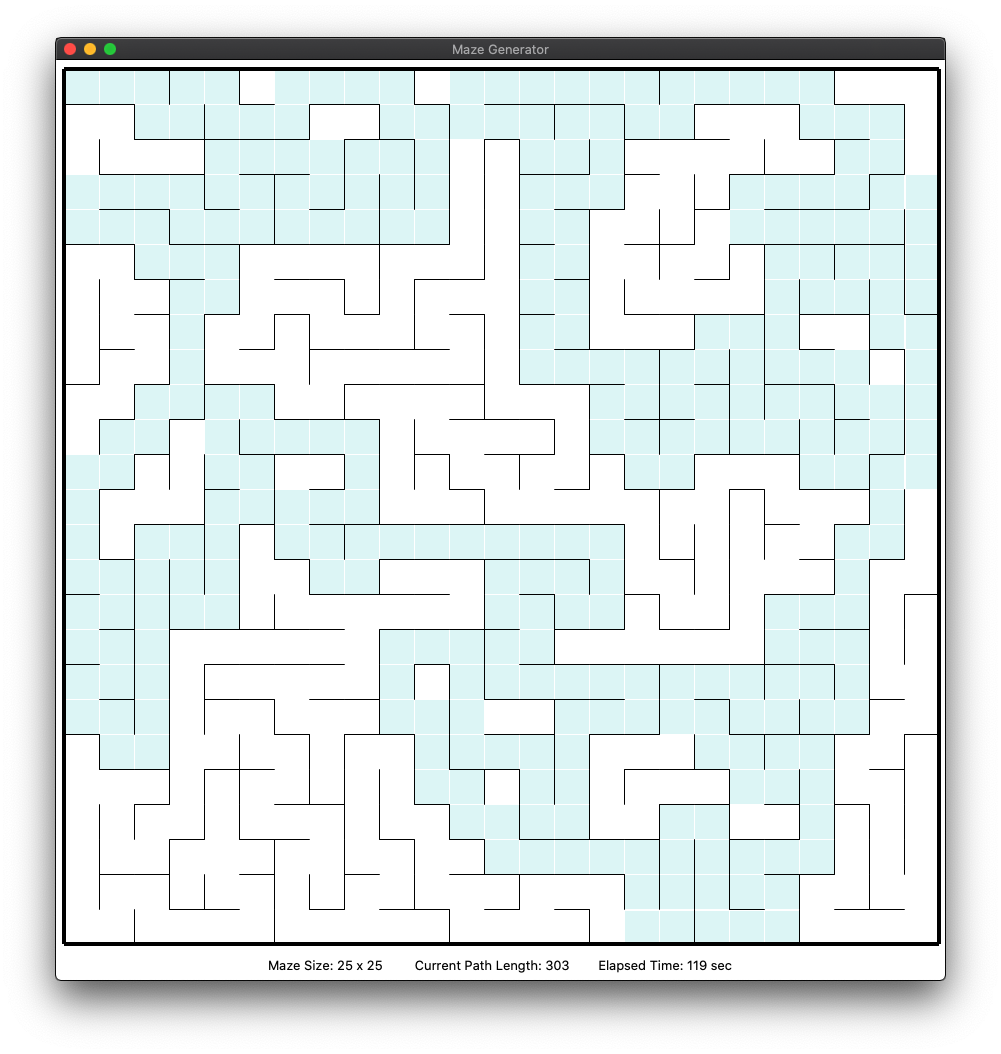
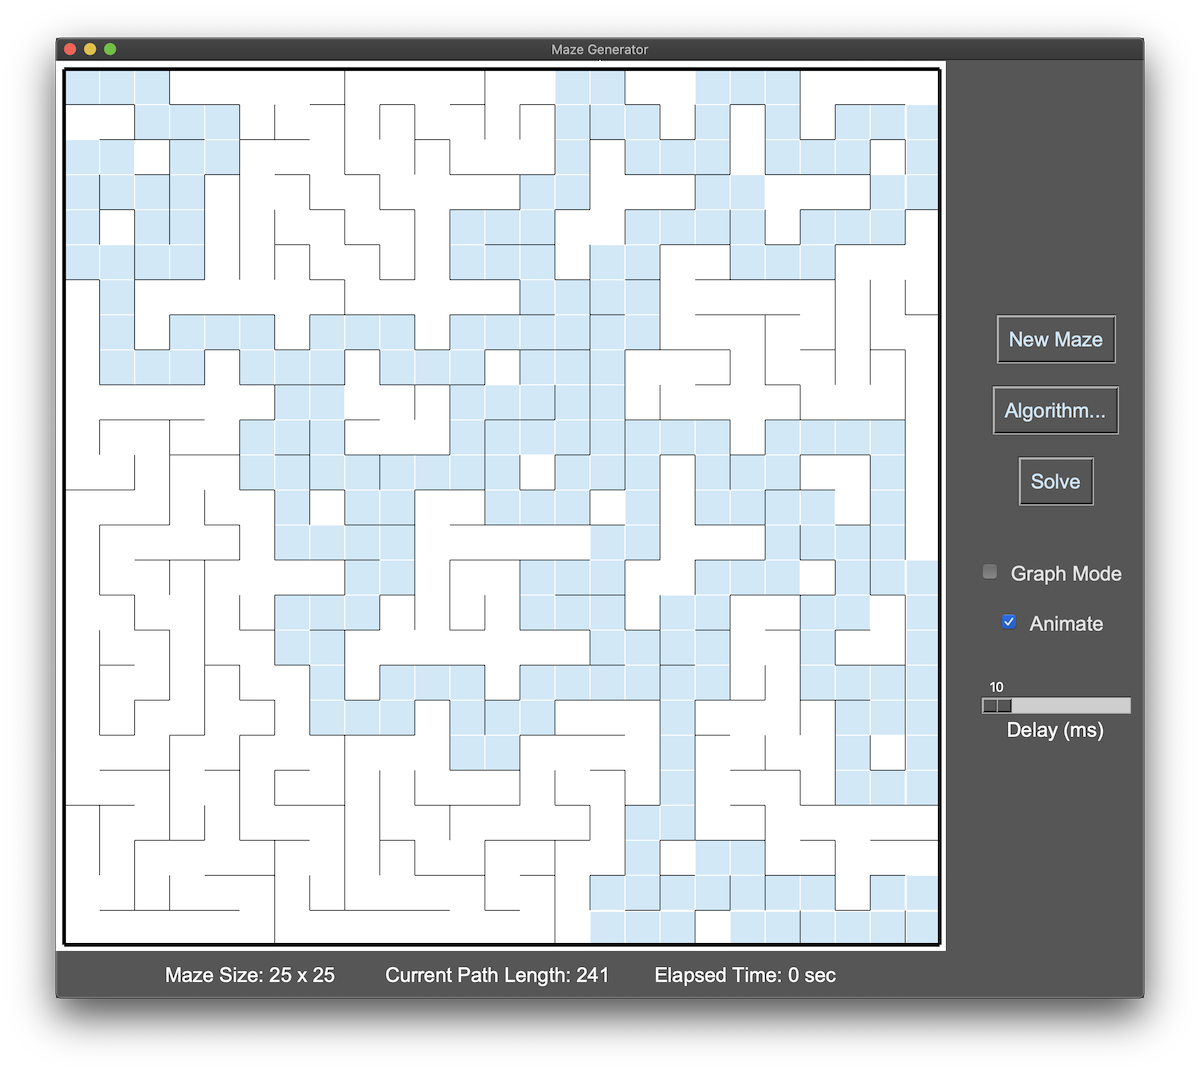
Update docs

diff --git a/setup.py b/setup.py
@@ -5,7 +5,7 @@ setup(
     name='labyrinth',
     version='0.1.0',
     packages=find_packages(),
-    python_requires='>=3.6',
+    python_requires='>=3.7',
     entry_points={
         'console_scripts': [
             'labyrinth = labyrinth.__main__:main',

diff --git a/README.md b/README.md
@@ -1,14 +1,154 @@
-# labyrinth - Python maze generator
+# labyrinth - Python maze generator and solver
 
-Labyrinth is a maze generator written in Python. It is currently a work in progress.
+This package contains utilities for generating and solving [mazes](https://en.wikipedia.org/wiki/Maze)
+using a variety of different algorithms.
 
-## Example Usage
+## About
 
-### Command Line
+Creating mazes by hand has long been a hobby of mine, since I was in elementary school. I always liked
+solving mazes ever since I learned what they were, and I eventually realized that they were just as much
+fun to make as they were to solve&mdash;if not more so! My dad and I would create mazes for each other,
+trying our hardest to create a maze that was too puzzling for the other to solve. We would time ourselves
+while solving each other's creations in a constant battle to prove who was the better maze solver. We
+never did get a definitive answer to that question, but mazes have been a passion of mine ever since.
+
+My passion for mazes was only further amplified when I discovered one day in a college math class that mazes
+are perfect candidates for modeling with the branch of mathematics known as
+[graph theory](https://en.wikipedia.org/wiki/Graph_theory). In its most basic form, a *graph* is a set of
+objects (known as *vertices* or *nodes*) and a set of pairwise connections between objects (known as *edges*).
+Graphs have all kinds of immensely useful practical applications, in areas as diverse as biology, computer
+science, and linguistics. In addition to all of these extremely pragmatic applications of graph theory,
+graphs can be fun, too&mdash;it turns out that it is possible to generate mazes using several well-known graph
+theory algorithms! I have wanted to explore these algorithms and the connection between mazes and graphs ever since,
+and this package is the realization of those aspirations.
+
+In order to represent a rectangular maze as a graph, we simply create a vertex for each cell in the maze, and then
+we add an edge between any two cells that are neighbors of each other. In this context, only cells directly to the
+north, south, east, and west of a given cell are considered neighbors, since you typically aren't allowed to move
+diagonally through mazes. Once we have this graph-based representation of the maze grid, generating the maze itself
+is exactly equivalent to finding a *spanning tree* of the graph. A *tree* is a special type of graph that is 
+*connected* (i.e., there exists a path between any two chosen vertices) and *acyclic* (i.e., there are no looping 
+paths). A spanning tree is simply a tree that *spans* (or includes) all vertices of the graph.
+
+The `labyrinth` package uses this graph theory&ndash;based approach to model mazes as a grid of connected cells.
+To maintain efficient access to the neighbors of any given cell, the graph is stored using
+[adjacency lists](https://en.wikipedia.org/wiki/Adjacency_list). The `labyrinth.graph` module is an
+object-oriented implementation of the mathematical concept of graphs as described in the previous paragraph.
+This module has no concept of mazes and can be used independently of the rest of this project for any number of
+graph-based applications. The only requirement is that the objects being used as vertices must be hashable
+(which most Python objects are by default).
+
+## Installation
+
+The package is not currently available on PyPI or any other Python package repository. The easiest
+way to install it is to clone the GitHub repository and install it from source.
+
+### Prerequisites
+
+* [Python](https://www.python.org/downloads/) 3.7 or newer
+* [Git](https://git-scm.com)
+* [Make](https://www.gnu.org/software/make/)
+
+### Installation Instructions
+
+Run the following commands in a shell (a UNIX-like environment is assumed):
 
 ```
->>> from labyrinth.maze import Maze
->>> print(Maze(20, 10))
+$ git clone git@github.com:will2dye4/labyrinth.git
+$ cd labyrinth
+$ make install
+```
+
+The package does not have any dependencies besides Python itself. If you wish to
+sandbox your installation inside a virtual environment, you may choose to use
+[virtualenvwrapper](https://virtualenvwrapper.readthedocs.io/en/latest/) or a similar
+utility to do so.
+
+When successfully installed, a program called `maze` and another program called `maze-ui`
+will be placed on your `PATH`. See the Usage section below for details about how to use
+these programs.
+
+## Usage
+
+The `maze` program is a command-line interface for generating mazes.
+
+At any time, you can use the `-h` or `--help` flags to see a summary of options that
+the program accepts.
+
+```
+$ maze -h
+usage: maze [-h] [-a {dfs,kruskal,prim,wilson}] [-g] [dimensions]
+
+Generate mazes.
+
+positional arguments:
+  dimensions            Dimensions of the maze to generate (e.g., 10x10)
+
+optional arguments:
+  -h, --help            show this help message and exit
+  -a {dfs,kruskal,prim,wilson}, --algorithm {dfs,kruskal,prim,wilson}
+                        The algorithm to use to generate the maze
+  -g, --gui, --ui       Display a GUI showing the maze being generated
+```
+
+Typical usage is `maze <dimensions>`, where `<dimensions>` is a string like `10x10`
+describing the dimensions of the maze to generate (width x height). The program will
+generate a random maze of the given size and print an ASCII representation of the maze
+to the console.
+
+### Algorithms
+
+By default, `maze` will use a random depth-first search algorithm to generate the maze.
+To specify a different algorithm, use the `-a` or `--algorithm` flags to `maze`. The
+available algorithms are `dfs`, `kruskal`, `prim`, and `wilson`. A description of each
+of these algorithms follows.
+
+The **DFS** (depth-first search) algorithm generates paths through the maze using a
+conventional [depth-first search](https://en.wikipedia.org/wiki/Depth-first_search)
+through the maze's underlying graph. The search starts in the top left corner and 
+repeatedly moves to a neighboring cell, creating a path as it goes. When the path reaches 
+a dead end (i.e., moving to any neighboring cell would create a cycle), the algorithm 
+backtracks to the most recent unvisited cell and starts again. Because of this backtracking
+behavior, this algorithm is also sometimes referred to as the **recursive backtrack** algorithm.
+The DFS algorithm tends to produce mazes with long, winding corridors but which are not 
+particularly difficult to solve.
+
+The version of **Kruskal's** algorithm implemented here is a modified version of
+[Kruskal's algorithm](https://en.wikipedia.org/wiki/Kruskal%27s_algorithm) for finding
+minimum spanning trees of connected graphs. Because the maze graph is unweighted,
+the algorithm is modified to select edges at random rather than based on lowest weight,
+but otherwise the algorithm is the same: at each step, an edge between two neighboring
+cells is selected, and the walls between the cells are removed if the two cells belong to
+disjoint paths through the maze. Kruskal's algorithm tends to produce mazes with many
+short cul-de-sacs and dead ends which are moderately difficult to solve.
+
+The version of **Prim's** algorithm implemented here is a modified version of
+[Prim's algorithm](https://en.wikipedia.org/wiki/Prim%27s_algorithm), which, like
+Kruskal's algorithm, finds minimum spanning trees of connected graphs. As with Kruskal's
+algorithm, Prim's algorithm has been modified to select edges at random rather than by
+weight. Prim's algorithm starts by selecting a random cell in the graph and marking it as
+being part of the maze. It then adds all of that cell's neighbors to a set called the "frontier."
+At each subsequent step, a cell is randomly chosen from the set of frontier cells and added to the
+maze, and all of that cell's neighbors are added to the set of frontier cells. The process
+continues until there are no frontier cells left, meaning that all cells are part of the maze.
+Prim's algorithm, like Kruskal's algorithm, tends to produce mazes with many cul-de-sacs and
+dead ends.
+
+**Wilson's** algorithm is somewhat similar to Kruskal's and Prim's algorithms, but unlike those
+algorithms, Wilson's algorithm generates [uniform spanning trees](https://en.wikipedia.org/wiki/Loop-erased_random_walk#Uniform_spanning_tree)
+and therefore tends to produce mazes which are a bit more visually pleasing than those generated
+by the previous two algorithms. Wilson's algorithm works by performing repeated loop-erased random
+walks through the graph, creating entire passages and adding them to the maze at once. (For more
+details about loop-erased random walks and uniform spanning trees, see the Wikipedia link earlier
+in this paragraph.)
+
+### Output
+
+When running in non-GUI mode (the default), the `maze` program prints output to the console. Sample
+output from running the `maze` program with a custom size is as follows.
+
+```
+$ maze 20x10
 +---+---+---+---+---+---+---+---+---+---+---+---+---+---+---+---+---+---+---+---+
 |               |           |           |       |       |               |       |
 +---+---+---+   +---+   +   +---+   +   +   +   +   +   +   +---+   +---+   +   +
@@ -32,10 +172,56 @@ Labyrinth is a maze generator written in Python. It is currently a work in progr
 +---+---+---+---+---+---+---+---+---+---+---+---+---+---+---+---+---+---+---+---+
 ```
 
+#### Exit Codes
+
+When the program runs successfully, it exits with a code of zero (0). If the program
+encounters an error in parsing the arguments that were passed to it, it exits with a code
+of two (2).
+
 ### GUI Mode
 
-```
-$ python3 labyrinth/ui.py
-```
+In order to visualize the process of generating mazes, the program also has a GUI mode,
+which can be activated with the `-g` (`--gui`) flag to `maze`, or by simply invoking `maze-ui`
+instead of `maze`. When running in GUI mode, only error output is printed to the console,
+and a window will open containing a visual representation of the maze and controls for generating
+new mazes using the different algorithms described above. Once a maze has been generated, clicking
+and dragging from the top left corner of the maze allows the user to solve the maze if they wish; the
+goal is to reach the bottom right corner. While a maze is being generated or solved, the GUI also
+displays statistics that show the size of the maze, the length of the current path through the maze,
+and how much time has elapsed since the maze was generated (i.e., how long it has taken you to solve it!).
+
+By default, the generation of new mazes will be animated, showing the current path being added to the maze
+at each step of the process, but this behavior can be disabled by unchecking the `Animate` box on
+the right side of the GUI. When animation is enabled, the `Delay (ms)` slider can also be adjusted
+to increase or decrease the delay between steps in the animation. When the `Graph Mode` box is checked,
+the conventional grid view of the maze will be replaced by a representation of the graph structure
+underlying the maze. This mode can be toggled on and off as desired to compare the traditional visual
+representation of the maze to the vertices and edges that the program is actually using to model the maze.
+
+In addition to generating mazes, `maze-ui` is also capable of solving mazes. Once a maze has been
+generated, clicking the `Solve` button will show the path through the maze (from the top left corner
+to the bottom right corner). If animation is enabled (see above), the drawing of the correct path will
+be animated, although the actual process of finding the solution&mdash;which is based on a depth-first
+search of a "junction graph" of the maze&mdash;is not animated.
+
+A sample of the program running in GUI mode is shown below.
 
 ![GUI Mode](./images/gui_mode.png)
+
+## References
+
+This project owes a massive debt of gratitude to the
+[series of articles on maze generation](https://weblog.jamisbuck.org/2011/2/7/maze-generation-algorithm-recap)
+featured on [Jamis Buck's blog](https://weblog.jamisbuck.org). The step-by-step breakdown of various
+algorithms, along with simple diagrams and animations showing how the algorithms work, were invaluable in
+creating my own adaptations of these algorithms. The 
+[article on maze-solving algorithms](https://www.kidscodecs.com/maze-solving-algorithms/) on the website of
+[*Beanz* magazine](https://www.kidscodecs.com) also came in handy for understanding the concept of the
+"junction graph" and using tree traversal to solve mazes.
+
+In addition to the articles linked to above, I also found the following resources helpful while working
+on this project:
+
+* https://en.wikipedia.org/wiki/Maze_generation_algorithm
+* https://en.wikipedia.org/wiki/Maze_solving_algorithm
+* https://tkdocs.com/shipman/
